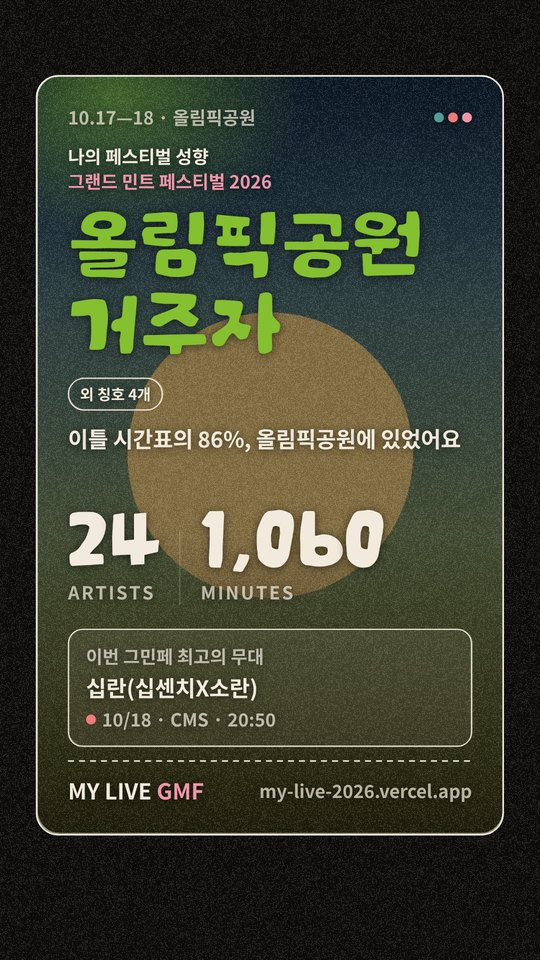
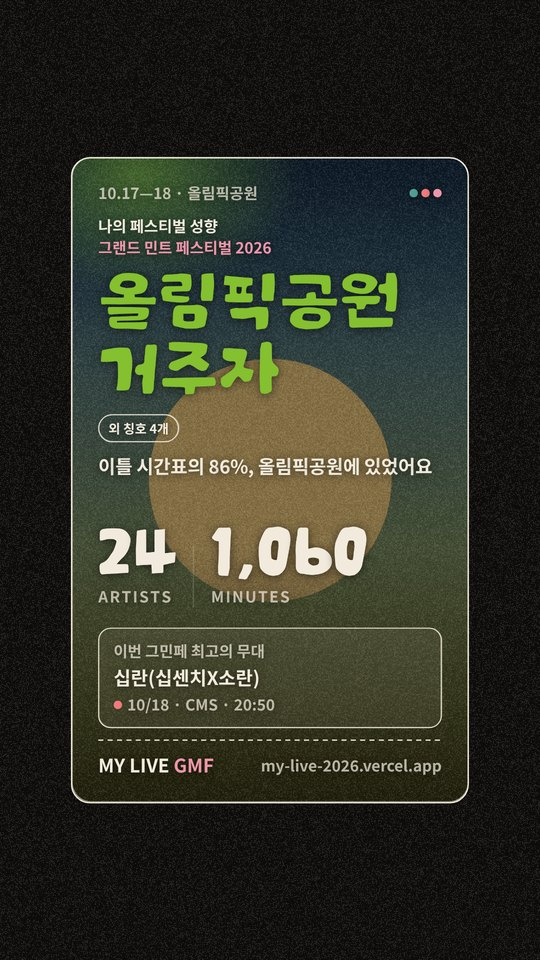
저장 PNG를 스토리 구도(카드 면 85% 가운데)로, 화면 카드 자르기에 사방 12px 여유 (MIN-316)
- EXPORT_CARD_SCALE 0.85: 카드 면을 그대로 그린 뒤 변환으로 줄여 x 142 · y 314 · 796×1292에 둔다. 바깥은 캔버스 배경 + 그레인
- 화면용 자르기(--crop-*)를 축소된 카드 면 + 사방 12px(×0.85) 여유로, 둥근 틀도 같은 중심으로 — 손그림 테두리가 잘리지 않게
- 그레인 캔버스 재사용, 구도·자르기 값 테스트(result.test.ts), 보고서 스크린샷 갱신

Claude-Session: https://claude.ai/code/session_01DzLv5jGsiiGAAvV4QuWUKK

diff --git a/tools/gmf-form/card.ts b/tools/gmf-form/card.ts
@@ -16,6 +16,12 @@ import { TITLE_COLORS } from './titles';
 /** PNG는 기기 픽셀 비율과 무관하게 1080×1920 */
 export const CARD_PX = { W: 1080, H: 1920 };
 
+/**
+ * 저장·공유 PNG는 스토리 구도: 카드 면(936×1520 기준으로 그린 모든 요소)을 이 비율로 줄여 캔버스 가운데에 둔다.
+ * 카드 면 안의 좌표는 그대로 두고 그릴 때 변환만 건다
+ */
+export const EXPORT_CARD_SCALE = 0.85;
+
 /** 정적 파일 경로 — build.mjs가 assets/glyphs를 /gmf/glyphs로 배포한다 */
 export const GLYPH_BASE = '/gmf/glyphs/';
 
@@ -68,6 +74,42 @@ export const CARD = {
   grain: { alpha: 0.12, seed: 20261018 },
   photo: { tint: 0.45, maxSide: 1600, shadowBlur: 18, shadowY: 2 },
 };
+
+/** PNG 안에서 카드 면 위치 (약 x 142 · y 314 · 796×1292) */
+export const EXPORT_FACE = {
+  x: (CARD_PX.W - CARD.face.w * EXPORT_CARD_SCALE) / 2,
+  y: (CARD_PX.H - CARD.face.h * EXPORT_CARD_SCALE) / 2,
+  w: CARD.face.w * EXPORT_CARD_SCALE,
+  h: CARD.face.h * EXPORT_CARD_SCALE,
+  r: CARD.face.r * EXPORT_CARD_SCALE,
+};
+
+/** 화면 표시용 자르기: 카드 면 경계보다 사방 12px(카드 면 기준) 넓게 — 손그림 테두리의 흔들림·두께가 다 들어가게 */
+export const SCREEN_CROP_PAD = 12;
+
+/** 화면에서 PNG를 카드 면만 크게 보여줄 때의 자르기 영역 (PNG 좌표). template.html의 --crop-* 값과 같아야 한다 (result.test.ts) */
+export function screenCrop() {
+  const pad = SCREEN_CROP_PAD * EXPORT_CARD_SCALE;
+  const x = EXPORT_FACE.x - pad;
+  const y = EXPORT_FACE.y - pad;
+  const w = EXPORT_FACE.w + pad * 2;
+  const h = EXPORT_FACE.h + pad * 2;
+  return {
+    x,
+    y,
+    w,
+    h,
+    /** CSS: 틀 비율, 틀 대비 이미지 폭·위치(%), 모서리(카드 면 모서리와 같은 중심의 둥근 틀) */
+    css: {
+      ar: `${w} / ${h}`,
+      width: (CARD_PX.W / w) * 100,
+      left: (-x / w) * 100,
+      top: (-y / h) * 100,
+      radiusX: ((EXPORT_FACE.r + pad) / w) * 100,
+      radiusY: ((EXPORT_FACE.r + pad) / h) * 100,
+    },
+  };
+}
 
 export const CARD_TEXT = {
   place: '올림픽공원',
@@ -230,9 +272,11 @@ function tint(img: HTMLImageElement, color: string): HTMLCanvasElement {
   return c;
 }
 
+let grainCanvas: HTMLCanvasElement | null = null;
 function grain(ctx: Ctx) {
   const { W, H } = CARD_PX;
-  const c = document.createElement('canvas');
+  if (grainCanvas) return drawGrain(ctx, grainCanvas);
+  const c = (grainCanvas = document.createElement('canvas'));
   // 반 해상도로 만들어 늘린다 (입자감 + 속도)
   c.width = W / 2;
   c.height = H / 2;
@@ -245,18 +289,28 @@ function grain(ctx: Ctx) {
     data.data[i + 3] = Math.floor(rand() * 255 * CARD.grain.alpha);
   }
   g.putImageData(data, 0, 0);
+  drawGrain(ctx, c);
+}
+
+function drawGrain(ctx: Ctx, c: HTMLCanvasElement) {
   ctx.save();
   ctx.imageSmoothingEnabled = false;
-  ctx.drawImage(c, 0, 0, W, H);
+  ctx.drawImage(c, 0, 0, CARD_PX.W, CARD_PX.H);
   ctx.restore();
 }
 
 /* ───────── 영역 ───────── */
 
-function drawBackground(ctx: Ctx, d: CardInput) {
-  const f = CARD.face;
+/** 캔버스 배경 + 그레인 (카드 면 바깥) */
+function drawCanvas(ctx: Ctx) {
   ctx.fillStyle = CARD.color.canvas;
   ctx.fillRect(0, 0, CARD_PX.W, CARD_PX.H);
+  grain(ctx);
+}
+
+/** 카드 면: 면 색·사진·빛번짐·그레인 (카드 면 안으로 클립) */
+function drawFace(ctx: Ctx, d: CardInput) {
+  const f = CARD.face;
   ctx.save();
   roundRect(ctx, f.x, f.y, f.w, f.h, f.r);
   ctx.clip();
@@ -275,8 +329,8 @@ function drawBackground(ctx: Ctx, d: CardInput) {
   ctx.fillStyle = grad;
   ctx.fillRect(-gl.rx, -gl.rx, gl.rx * 2, gl.rx * 2);
   ctx.restore();
-  ctx.restore();
   grain(ctx);
+  ctx.restore();
 }
 
 function drawPhoto(ctx: Ctx, photo: CanvasImageSource & { width: number; height: number }) {
@@ -490,7 +544,13 @@ export function drawCard(canvas: HTMLCanvasElement, d: CardInput, glyphs: Map<st
   canvas.width = CARD_PX.W;
   canvas.height = CARD_PX.H;
   const ctx = canvas.getContext('2d')!;
-  drawBackground(ctx, d);
+  drawCanvas(ctx);
+  // 아래는 카드 면 기준 좌표 그대로 그리고, 변환으로 EXPORT_FACE 자리에 줄여 놓는다
+  ctx.save();
+  ctx.translate(EXPORT_FACE.x, EXPORT_FACE.y);
+  ctx.scale(EXPORT_CARD_SCALE, EXPORT_CARD_SCALE);
+  ctx.translate(-CARD.face.x, -CARD.face.y);
+  drawFace(ctx, d);
   const f = CARD.face;
   sketchRect(ctx, f.x + CARD.outline.w / 2, f.y + CARD.outline.w / 2, f.w - CARD.outline.w, f.h - CARD.outline.w, f.r, CARD.outline.w, CARD.color.cream, 7);
   ctx.save();
@@ -504,6 +564,7 @@ export function drawCard(canvas: HTMLCanvasElement, d: CardInput, glyphs: Map<st
   drawTop(ctx, d);
   drawTitleBlock(ctx, d, glyphs, l);
   drawBottom(ctx, d, glyphs);
+  ctx.restore();
   ctx.restore();
   return { overflow: l.overflow };
 }

diff --git a/tools/gmf-form/template.html b/tools/gmf-form/template.html
@@ -17,6 +17,8 @@
   --line: rgba(242, 235, 221, 0.16); --pink: #EF96AB;
   --mbs: #519E98; --cms: #F17A7C; --lfg: #EF96AB; --mbs-d: #29423F; --cms-d: #613635; --lfg-d: #604046;
   --font: "Noto Sans KR", "Apple SD Gothic Neo", system-ui, sans-serif;
+  /* 화면용 카드 자르기 — card.ts screenCrop()과 같은 값 (PNG 안 카드 면 85% + 사방 12px 여유, result.test.ts가 확인) */
+  --crop-ar: 816 / 1312.4; --crop-hw: 1.60833; --crop-w: 132.3529%; --crop-l: -16.1765%; --crop-t: -23.1484%; --crop-r: 5.8333% / 3.6269%;
   color-scheme: dark;
 }
 * { box-sizing: border-box; }
@@ -38,9 +40,9 @@ button { cursor: pointer; -webkit-tap-highlight-color: transparent; }
 .i-kicker { margin: 0; text-align: center; font-size: 11px; font-weight: 700; color: var(--dim); letter-spacing: 0.02em; }
 .i-title { margin: 16px 0 0; text-align: center; font-size: 24px; line-height: 1.4; font-weight: 700; letter-spacing: -0.02em; }
 .i-card { flex: 1 1 0; min-height: 260px; position: relative; display: grid; place-items: center; margin: 18px 0; }
-.i-card .ex { height: 100%; max-height: 430px; aspect-ratio: 936 / 1520; position: relative; transform: rotate(-4deg); border-radius: 18px; overflow: hidden;
+.i-card .ex { height: 100%; max-height: 430px; aspect-ratio: var(--crop-ar); position: relative; transform: rotate(-4deg); border-radius: var(--crop-r); overflow: hidden;
   box-shadow: 0 18px 50px rgba(0, 0, 0, 0.55); background: var(--face); }
-.i-card .ex img { position: absolute; left: -7.6923%; top: -9.8684%; width: 115.3846%; height: auto; display: block; }
+.i-card .ex img { position: absolute; left: var(--crop-l); top: var(--crop-t); width: var(--crop-w); height: auto; display: block; }
 .i-tag { position: absolute; top: 2%; right: 8%; transform: rotate(6deg); background: var(--cream); color: #14110F; font-weight: 700; font-size: 15px;
   padding: 6px 16px; border-radius: 999px; z-index: 1; }
 .i-tag::after { content: ''; position: absolute; left: 22px; bottom: -6px; border: 7px solid transparent; border-top-color: var(--cream); border-bottom: 0; }
@@ -129,9 +131,9 @@ button { cursor: pointer; -webkit-tap-highlight-color: transparent; }
 .rtop .logo { font-weight: 700; font-size: 16px; letter-spacing: 0.01em; }
 .rtop .rsub { font-size: 12px; color: var(--dim); font-weight: 500; }
 .cardwrap { flex: 1 1 0; min-height: 0; position: relative; }
-/* 화면에는 카드 면(936×1520)만 보이게 PNG 바깥 여백을 잘라 보여준다. 길게 눌러 저장하면 1080×1920 전체가 저장된다 */
-.cardframe { position: absolute; inset: 0; margin: auto; aspect-ratio: 936 / 1520; height: min(100%, calc(min(100vw - 32px, 448px) * 1520 / 936)); overflow: hidden; border-radius: 4.7% / 2.9%; }
-#card-img { position: absolute; left: -7.6923%; top: -9.8684%; width: 115.3846%; height: auto; max-width: none; display: block;
+/* 화면에는 카드 면(+ 사방 여유)만 보이게 PNG 바깥 여백을 잘라 보여준다. 길게 눌러 저장하면 1080×1920 전체가 저장된다 */
+.cardframe { position: absolute; inset: 0; margin: auto; aspect-ratio: var(--crop-ar); height: min(100%, calc(min(100vw - 32px, 448px) * var(--crop-hw))); overflow: hidden; border-radius: var(--crop-r); }
+#card-img { position: absolute; left: var(--crop-l); top: var(--crop-t); width: var(--crop-w); height: auto; max-width: none; display: block;
   -webkit-touch-callout: default; -webkit-user-select: auto; user-select: auto; }
 #card-status { position: absolute; inset: 0; display: grid; place-items: center; margin: 0; color: var(--dim); font-size: 14px; text-align: center; padding: 0 24px; }
 .actions { display: grid; grid-template-columns: 1fr 1fr; gap: 10px; flex: none; }

diff --git a/tools/gmf-form/result.test.ts b/tools/gmf-form/result.test.ts
@@ -1,4 +1,6 @@
 /** 결과 화면 순수 함수: PC/휴대폰·인앱 판별 (npm run test:form) */
+import { readFileSync } from 'node:fs';
+import { CARD, CARD_PX, EXPORT_CARD_SCALE, EXPORT_FACE, SCREEN_CROP_PAD, screenCrop } from './card';
 import { isInApp, isMobile } from './result';
 
 let fail = 0;
@@ -22,6 +24,27 @@ ok(isMobile(UA.macSafari, 5), 'iPadOS(Mac UA + 터치) = 휴대폰·태블릿');
 ok(isMobile(UA.iphone, 5) && isMobile(UA.android, 5), '아이폰·안드로이드 = 휴대폰');
 ok(isInApp(UA.insta) && isInApp(UA.kakao), '인스타·카톡 = 인앱');
 ok(!isInApp(UA.iphone) && !isInApp(UA.winChrome) && !isInApp(UA.android), 'Safari·Chrome = 인앱 아님');
+
+console.log('· 저장 PNG 구도·화면 자르기');
+const near = (a: number, b: number, eps = 0.01) => Math.abs(a - b) <= eps;
+ok(CARD_PX.W === 1080 && CARD_PX.H === 1920, 'PNG 1080×1920');
+ok(EXPORT_CARD_SCALE === 0.85, 'EXPORT_CARD_SCALE 0.85');
+ok(near(EXPORT_FACE.w, 795.6) && near(EXPORT_FACE.h, 1292) && near(EXPORT_FACE.x, 142.2) && near(EXPORT_FACE.y, 314), `카드 면 약 796×1292 · x 142 · y 314 (${EXPORT_FACE.x}, ${EXPORT_FACE.y}, ${EXPORT_FACE.w}×${EXPORT_FACE.h})`);
+ok(near(EXPORT_FACE.x * 2 + EXPORT_FACE.w, CARD_PX.W) && near(EXPORT_FACE.y * 2 + EXPORT_FACE.h, CARD_PX.H), '캔버스 가운데');
+const c = screenCrop();
+const pad = SCREEN_CROP_PAD * EXPORT_CARD_SCALE;
+ok(near(EXPORT_FACE.x - c.x, pad) && near(c.x + c.w - (EXPORT_FACE.x + EXPORT_FACE.w), pad) && near(EXPORT_FACE.y - c.y, pad) && near(c.y + c.h - (EXPORT_FACE.y + EXPORT_FACE.h), pad), `화면 자르기 = 카드 면 + 사방 ${SCREEN_CROP_PAD}px(축소 비율 적용 ${pad.toFixed(1)}px)`);
+// 손그림 테두리: 두께 3 + 흔들림 최대 1.1px → 카드 면 경계에서 바깥으로 3px 안쪽에 들어와야 함
+ok(SCREEN_CROP_PAD > CARD.outline.w + 1.1, '여유가 테두리 두께·흔들림보다 큼');
+ok(c.x >= 0 && c.y >= 0 && c.x + c.w <= CARD_PX.W && c.y + c.h <= CARD_PX.H, '자르기 영역이 PNG 안');
+const css = readFileSync(new URL('./template.html', import.meta.url), 'utf8');
+const v = (name: string) => css.match(new RegExp(`--crop-${name}: ([^;]+);`))?.[1].trim() ?? '';
+const pct = (s: string) => parseFloat(s);
+ok(v('ar') === c.css.ar, `--crop-ar = ${c.css.ar} (${v('ar')})`);
+ok(near(pct(v('hw')), c.h / c.w, 1e-4), `--crop-hw = ${(c.h / c.w).toFixed(5)} (${v('hw')})`);
+ok(near(pct(v('w')), c.css.width, 1e-3) && near(pct(v('l')), c.css.left, 1e-3) && near(pct(v('t')), c.css.top, 1e-3), `--crop-w·l·t (${v('w')}, ${v('l')}, ${v('t')})`);
+const [rx, ry] = v('r').split('/').map(pct);
+ok(near(rx, c.css.radiusX, 1e-3) && near(ry, c.css.radiusY, 1e-3), `--crop-r (${v('r')})`);
 
 console.log(fail ? `\n${fail}개 실패` : '\n모두 통과');
 process.exit(fail ? 1 : 0);
